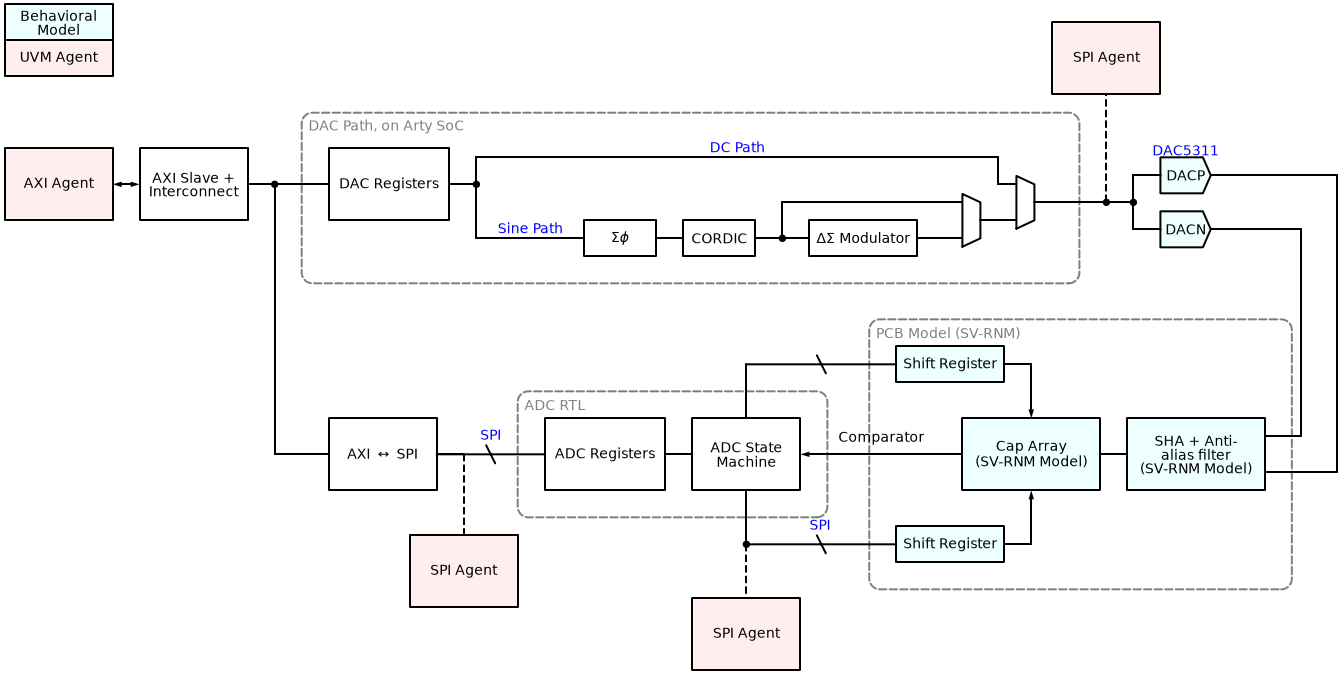
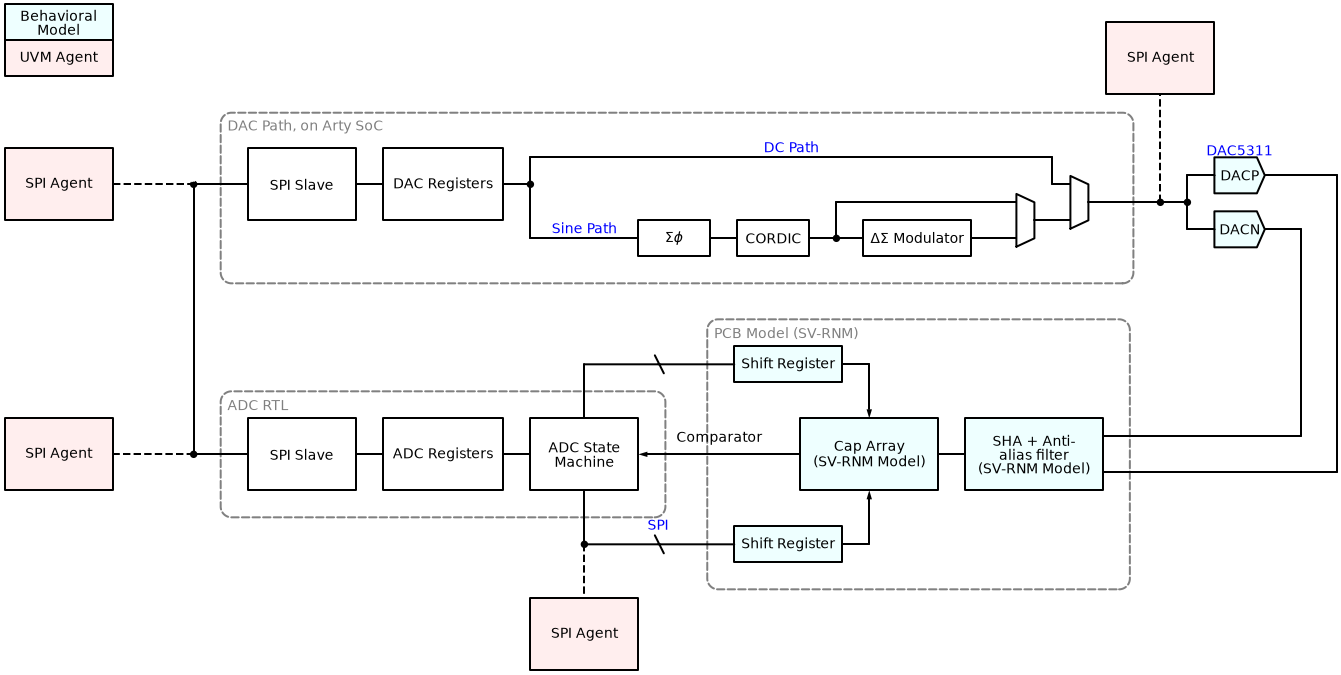
Deployed 380fab7 with MkDocs version: 1.6.1

diff --git a/hdl/index.html b/hdl/index.html
@@ -56,11 +56,13 @@
     </li>
     <li class="toctree-l2"><a class="reference internal" href="#verification">Verification</a>
         <ul>
-    <li class="toctree-l3"><a class="reference internal" href="#uvm-ms-testbench">UVM-MS Testbench</a>
+    <li class="toctree-l3"><a class="reference internal" href="#adc-testbench">ADC Testbench</a>
     </li>
     <li class="toctree-l3"><a class="reference internal" href="#axi-integration-testbench">AXI Integration Testbench</a>
     </li>
         </ul>
+    </li>
+    <li class="toctree-l2"><a class="reference internal" href="#integration">Integration</a>
     </li>
     </ul>
                 </li>
@@ -136,96 +138,23 @@ the RTL point of view. In other words, the address is the 15 MSBs of a 16-bit ad
 <p>Verification for this device will be done with UVM, using a combination of AXI and SPI.
 The goal is to drive stimulus using an AXI agent to gain confidence that the RTL will
 work, and repurpose a SPI agent to check the buses for shift registers and DACs.</p>
-<h3 id="uvm-ms-testbench">UVM-MS Testbench</h3>
-<p>The UVM testbench is meant as a learning opportunity for UVM and also for a thorough testbench for the ADC RTL. Unlike a real tapeout, we can recompile, but I'd rather not.</p>
+<h3 id="adc-testbench">ADC Testbench</h3>
+<p>The ADC testbench is meant as a learning opportunity for UVM and also for a thorough testbench for the ADC RTL. Unlike a real tapeout, we can recompile, but I'd rather not.</p>
 <p><img alt="Digital Testbench" src="../img/uvm_tb.png" /></p>
-<p>The test list is as follows:</p>
-<ol>
-<li>
-<p>Sanity Tests</p>
-<ol>
-<li><code>smoke_reset</code><ul>
-<li>assert external reset during idle</li>
-<li>check registers return to default and no X</li>
-</ul>
-</li>
-<li><code>smoke_reg_access</code><ul>
-<li>Write/read all control registers that don't kick off a process</li>
-<li>Check illegal accesses</li>
-<li>Boundary value testing</li>
-</ul>
-</li>
-</ol>
-</li>
-<li>
-<p>Functional Correctness Tests</p>
-<ol>
-<li><code>ramp_monotonicity</code><ul>
-<li>Slow ramp input</li>
-<li>Check no missing codes</li>
-<li>Monotonic output</li>
-</ul>
-</li>
-<li><code>rand_dc_levels</code><ul>
-<li>Send multiple DC inputs (incremental mode only)</li>
-<li>Check output code is correct</li>
-</ul>
-</li>
-</ol>
-</li>
-<li>
-<p>Spectral/Performance Tests</p>
-<ol>
-<li><code>snr_continuous</code><ul>
-<li>Full-scale sine input in DSM mode</li>
-<li>Measure SNR, THD, SFDR</li>
-<li>Assert SNR within bound based on Python model</li>
-</ul>
-</li>
-<li><code>snr_incremental</code><ul>
-<li>Full-scale sine input in incremental mode</li>
-<li>Measure SNR and ENOB</li>
-<li>Assert SNR within bound based on Python model</li>
-</ul>
-</li>
-<li><code>osr_sweep</code><ul>
-<li>Sweep OSR with everything else set and a reasonable FFT value</li>
-<li>Verify 2nd-order noise shaping</li>
-</ul>
-</li>
-<li><code>dem_compare</code><ul>
-<li>Compare spectra with DEM on vs off</li>
-<li>Verify harmonic reduction, even if minor (may need large capacitor mismatch)</li>
-</ul>
-</li>
-</ol>
-</li>
-<li>
-<p>Boundary/Stress Tests</p>
-<ol>
-<li><code>analog_digital_boundary_stress</code><ul>
-<li>Inject comparator offset and/or first conversion error</li>
-<li>Verify that output is still monotonic if using redundancy</li>
-</ul>
-</li>
-<li><code>spi_mid_conversion</code><ul>
-<li>Modify registers mid-conversion</li>
-<li>Verify graceful handling</li>
-</ul>
-</li>
-</ol>
-</li>
-</ol>
 <h3 id="axi-integration-testbench">AXI Integration Testbench</h3>
-<p>This is up in the air; if using an Arduino, this won't be used. However, if a Zynq dev board is available, then it would be best to integrate the analog board with the digital on Zynq.</p>
-<p>This would mean adding adapters for AXI/SPI, and also waveform generation, likely with an oversampled DAC off the shelf. The plus side is that all of the bringup could then be done in Python.</p>
-<p>The testbench will need AXI adapters to I2C and SPI, and then just a couple of sanity tests would be sufficient:</p>
-<ol>
-<li>SPI register read/write using AXI</li>
-<li>DAC waveform generation using AXI (reuse models from UVM tb + I2C and digital model of anti-aliasing filter)</li>
-<li>NFFT conversion test (could be small, just proof of concept)</li>
-</ol>
-<p>This would also require writing Linux drivers, so there would be a lot of learning in the bringup.</p>
+<p>If possible, I will integrate this with the Zynq PS such that this can be run similar to PYNQ. In that case, 
+an AXI to SPI adapter will be necessary, and will be run like so:</p>
+<p>The first thing to do will be to add an AXI adapter so that it can be used to communicate with both the DAC and the ADC.</p>
+<p><img alt="AXI to SPI" src="../img/axi_integration_tb.png" /></p>
+<h2 id="integration">Integration</h2>
+<p>There are two options for integration. The first would be to integrate this with the
+Zynq PS so that I can run AXI commands natively, like so:</p>
+<p><img alt="Zynq Validation" src="../img/zynq_validation_setup.png" /></p>
+<p>Given that my board very likely has a fried Ethernet chip, this may be difficult. If that
+persists and I am not able to find a workaround, I will ignore the dedicated PS and use
+the FPGA fabric only, using a Jupyter notebook over <code>pyserial</code>, with Arduino drivers
+instead of Linux ones. The bonus is that the PCB design will remain the same.</p>
+<p><img alt="Arduino Validation" src="../img/arduino_validation_setup.png" /></p>
               
             </div>
           </div><footer>

diff --git a/chip_top/index.html b/chip_top/index.html
@@ -14,7 +14,7 @@
     <link rel="stylesheet" href="css/theme.css?v=2.12.2">
     <link rel="icon" type="image/png" href="favicon.png">
     <script>
-        var BUILD_TS = 1782545357;
+        var BUILD_TS = 1782626063;
     </script>
     <script async src="https://cdn.jsdelivr.net/npm/mathjax@2/MathJax.js"></script>
     <script type="text/x-mathjax-config">
@@ -26,8 +26,8 @@
     </script>
     <script src="js/progressbar.min.js?v=2.12.2" type="text/javascript"></script>
     <script src="js/sha1.js?v=2.12.2" type="text/javascript"></script>
-    <script src="data/data_index.js?ts=1782545357" type="text/javascript"></script>
-    <script src="search/bkt_index.js?ts=1782545357" type="text/javascript"></script>
+    <script src="data/data_index.js?ts=1782626063" type="text/javascript"></script>
+    <script src="search/bkt_index.js?ts=1782626063" type="text/javascript"></script>
     <script src="js/ral.js?v=2.12.2" type="text/javascript"></script>
     <script src="js/main.js?v=2.12.2" type="text/javascript"></script>
     <script src="js/nav.js?v=2.12.2" type="text/javascript"></script>

diff --git a/index.html b/index.html
@@ -236,5 +236,5 @@
 
 <!--
 MkDocs version : 1.6.1
-Build Date UTC : 2026-06-27 07:30:52.932285+00:00
+Build Date UTC : 2026-06-28 05:54:42.160632+00:00
 -->